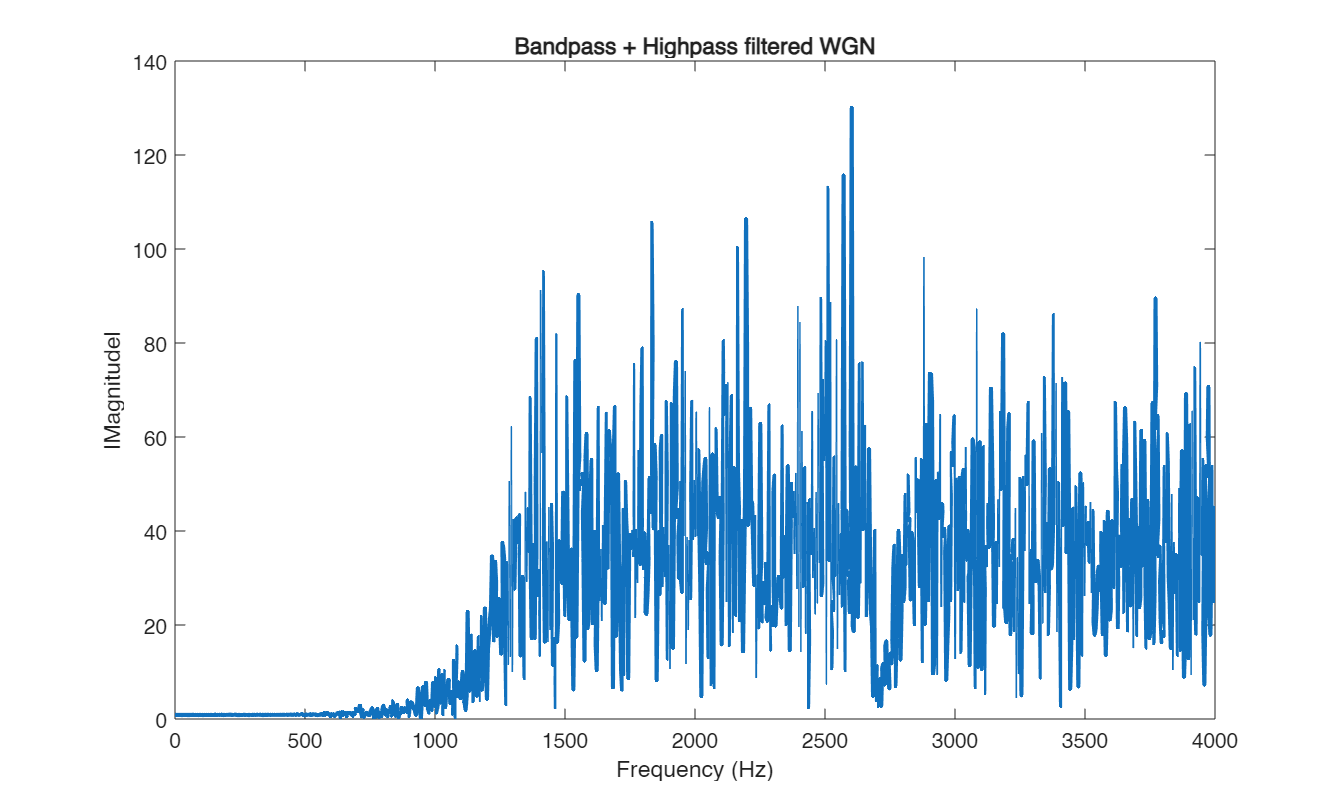
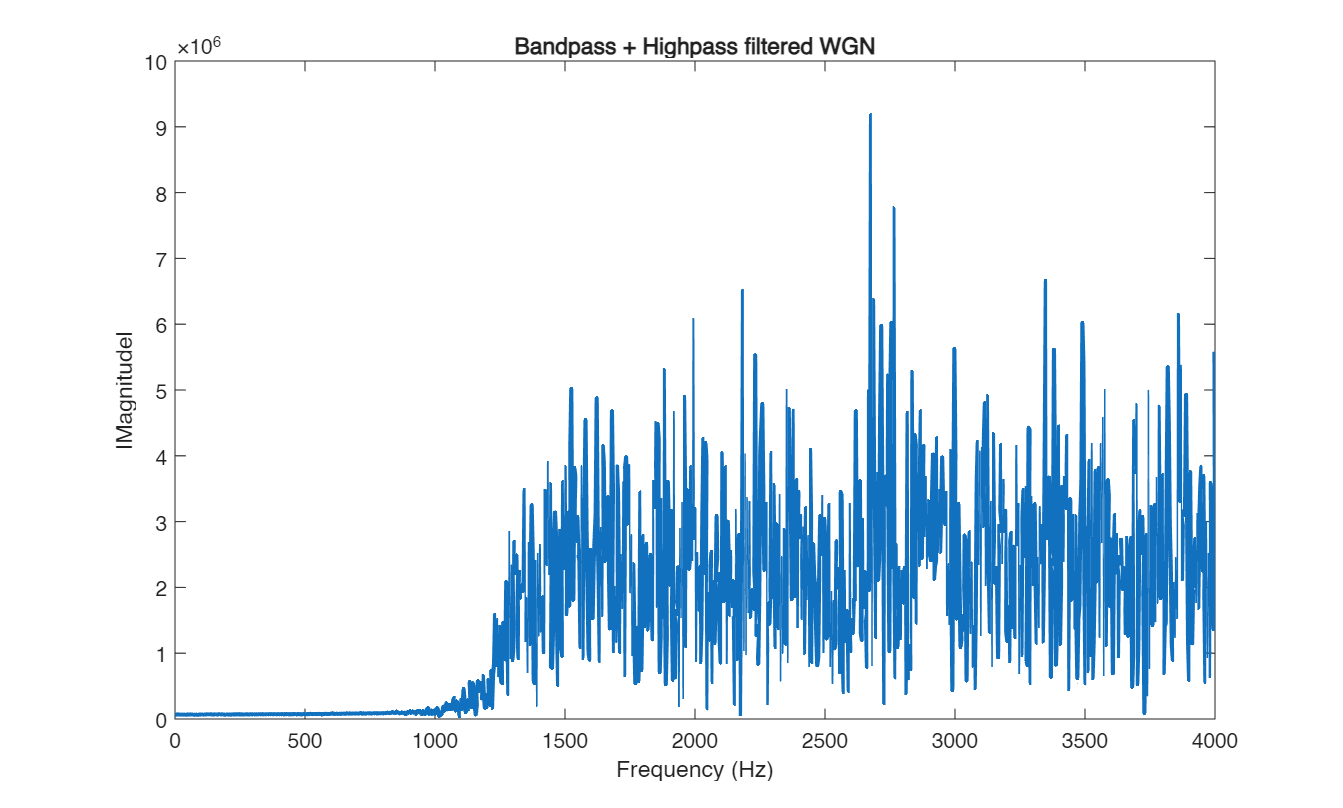
cherrypick led

diff --git a/MiniProject/Main.c b/MiniProject/Main.c
@@ -9,6 +9,10 @@ uint32_t alldip;
 uint8_t dip_1, dip_2, dip_6, dip_7, dip_8;
 Bool dips[8];
 
+Bool toggle_20[2];  // [0] -> LED1, [1] -> LED2
+Bool toggle_6;      // only LED2
+Bool toggle_2;      // only LED1
+
 float buffer[32768];
 //float obuffer[2000];
 ulong_t ind = 0;
@@ -42,66 +46,104 @@ void main(void){
 //lower priority?
 
 void audioHWI(void){
-
     s16 = read_audio_sample();
-    ind = (ind+1) & (32767);
-    //MCASP->RSLOT;
+    if (MCASP->RSLOT){
+        ind = (ind+1) & (32767);
+        //MCASP->RSLOT;
 
-    if(!dips[0]){
-        //write_audio_sample(s16);
+        if(!dips[0]){
+            //write_audio_sample(s16);
 
         if(!dips[1]){
             update_array(x,buffer[ind]);
 
-            float result = 0.0;
-            if(!dips[5]){
-                result += IIR(a_iir_bp,yb,b_iir_bp);
-            }
+                float result = 0.0;
+                if(!dips[5]){
+                    result += IIR(a_iir_bp,yb,b_iir_bp);
+                }
 
-            if(!dips[6]){
-                result += IIR(a_iir_lp,yl,b_iir_lp);
-            }
+                if(!dips[6]){
+                    result += IIR(a_iir_lp,yl,b_iir_lp);
+                }
 
-            if(!dips[7]){
-                result += IIR(a_iir_hp,yh,b_iir_hp);
-            }
+                if(!dips[7]){
+                    result += IIR(a_iir_hp,yh,b_iir_hp);
+                }
 
-            //sum filter results
-            //printf("%d\n\n",result);
-            write_audio_sample(result);
-            //obuffer[ind>>4] = result;
-            //printf("%d\n",ind<<4);
+                //sum filter results
+                //printf("%d\n\n",result);
+                write_audio_sample((int16_t)result);
+                //obuffer[ind>>4] = result;
+                //printf("%d\n",ind<<4);
+                //write_audio_sample(s16);
+            }
+            else{
+                write_audio_sample(s16);
+                buffer[ind] = (float)s16;
+                //output input?
+                //run IIR with zeros?
+            }
             //write_audio_sample(s16);
         }
         else{
-            buffer[ind] = (float)s16;
-            write_audio_sample(s16);
-            //output input?
+            write_audio_sample(0);
+            //do nothing
+            //fill buffer with zeros?
             //run IIR with zeros?
         }
-        //write_audio_sample(s16);
     }
-    else{
+    else {
         write_audio_sample(0);
-        //do nothing
-        //fill buffer with zeros?
-        //run IIR with zeros?
     }
-
 }
 
-void LED(){
-    LED_toggle(LED_2);
-    int i;
+void DIP_UPDATE(){
     DIP_getAll(&alldip);
-    for(i = 0;i<8;i++){
-        dips[i]= (alldip & ( 1 << i )) >> i;
+    dips[0]= (alldip & ( 1 << 0 )) >> 0;
+    dips[1]= (alldip & ( 1 << 1 )) >> 1;
+    dips[5]= (alldip & ( 1 << 5 )) >> 5;
+    dips[6]= (alldip & ( 1 << 6 )) >> 6;
+    dips[7]= (alldip & ( 1 << 7 )) >> 7;
+    if (!dips[0]){
+        toggle_20[0]=1;
+        toggle_20[1]=1;
+        toggle_6=0;
+        toggle_2=0;
+        if(!dips[1]){
+            toggle_20[0]=0;
+            toggle_20[1]=1;
+            toggle_6=0;
+            toggle_2=1;
+            if(!(dips[5]&dips[6]&dips[7])){
+                toggle_20[0]=0;
+                toggle_20[1]=0;
+                toggle_6=1;
+                toggle_2=1;
+            }
+        }
+    } else {
+        toggle_20[0]=0;
+        toggle_20[1]=0;
+        toggle_6=0;
+        toggle_2=0;
+        LED_turnOff(LED_2);
+        LED_turnOff(LED_1);
     }
 }
 
+void LED_20HZ(){
+    if (toggle_20[0]){LED_toggle(LED_1);}
+    if (toggle_20[1]){LED_toggle(LED_2);}
+}
 
-//TODO unroll
-float IIR(float b1[], float y[],float b2[]){
+void LED_6HZ(){
+    if (toggle_6){LED_toggle(LED_2);}
+}
+
+void LED_2HZ(){
+    if (toggle_2){LED_toggle(LED_1);}
+}
+float IIR(float a[], float y[],float b[]){
     int i;
     float out = 0.0;
 

diff --git a/assign.m b/assign.m
@@ -1,9 +1,11 @@
 %% 
 fs = 8e3;
 % genenerate some wgn
-x = wgn(1, 1e6, 0);
+x = single(wgn(1, 1e6, 2^32, 1, 11,'linear'));
 
 %% Filter design
+analysis = true;
+
 lowpass_f1 = fs/6;
 
 bandpass_f1 = fs/6;
@@ -36,11 +38,12 @@ hpfilt = designfilt("highpassiir", ...
     SampleRate=fs);
 
 % analyze the filters
+if analysis
 filterAnalyzer(lpfilt, bpfilt, hpfilt, ...
             FilterNames=["Lowpass", "Bandpass", "Highpass"], ...
             Analysis="magnitude", ...
             SampleRates=[fs, fs, fs]);
-
+end
 % get transfer functions
 [lp_b, lp_a] = tf(lpfilt);
 [bp_b, bp_a] = tf(bpfilt);
@@ -51,10 +54,11 @@ bp_a = [bp_a 0];
 bp_b = [bp_b 0];
 
 % analyze the transfer functions
+if analysis
 filterAnalyzer(lp_b, lp_a, bp_b, bp_a, hp_b, hp_a, ...
             FilterNames=["Lowpass_tf", "Bandpass_tf", "Highpass_tf"], ...
             SampleRates=[fs, fs, fs]);
-
+end
 % quantize the transfer functions
 lp_b_q = single(lp_b);
 lp_a_q = single(lp_a);
@@ -64,10 +68,11 @@ hp_b_q = single(hp_b);
 hp_a_q = single(hp_a);
 
 % analyze quantization
+if analysis
 filterAnalyzer(lp_b_q, lp_a_q, bp_b_q, bp_a_q, hp_b_q, hp_a_q, ...
             FilterNames=["Lowpass_tf_q", "Bandpass_tf_q", "Highpass_tf_q"], ...
             SampleRates=[fs, fs, fs]);
-
+end
 %% Filter the signal
 % lowpass
 y_lp = filter(lp_b_q, lp_a_q, x);

diff --git a/MiniProject/Main.h b/MiniProject/Main.h
@@ -1,4 +1,4 @@
 float IIR(float b1[], float y[],float b2[]);
-void filters();
-void LED();
-void update_array(float arr[], float new);
+void LED_20HZ();
+void LED_6HZ();
+void LED_2HZ();
